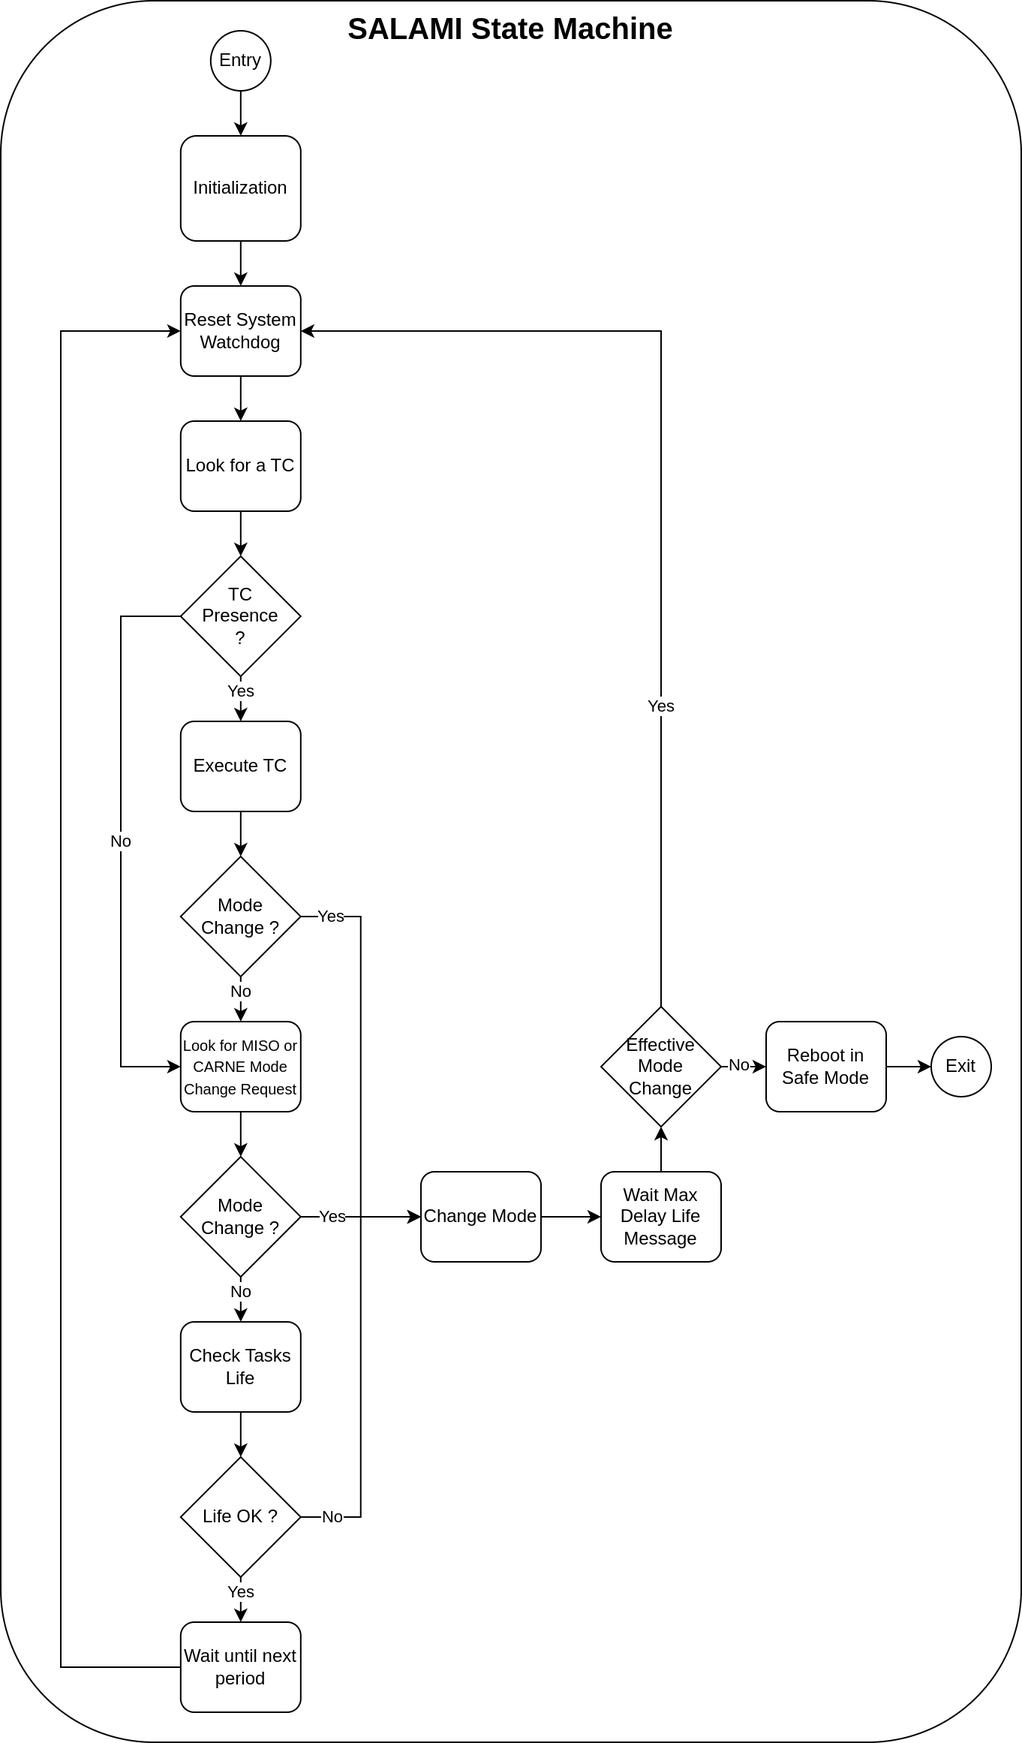
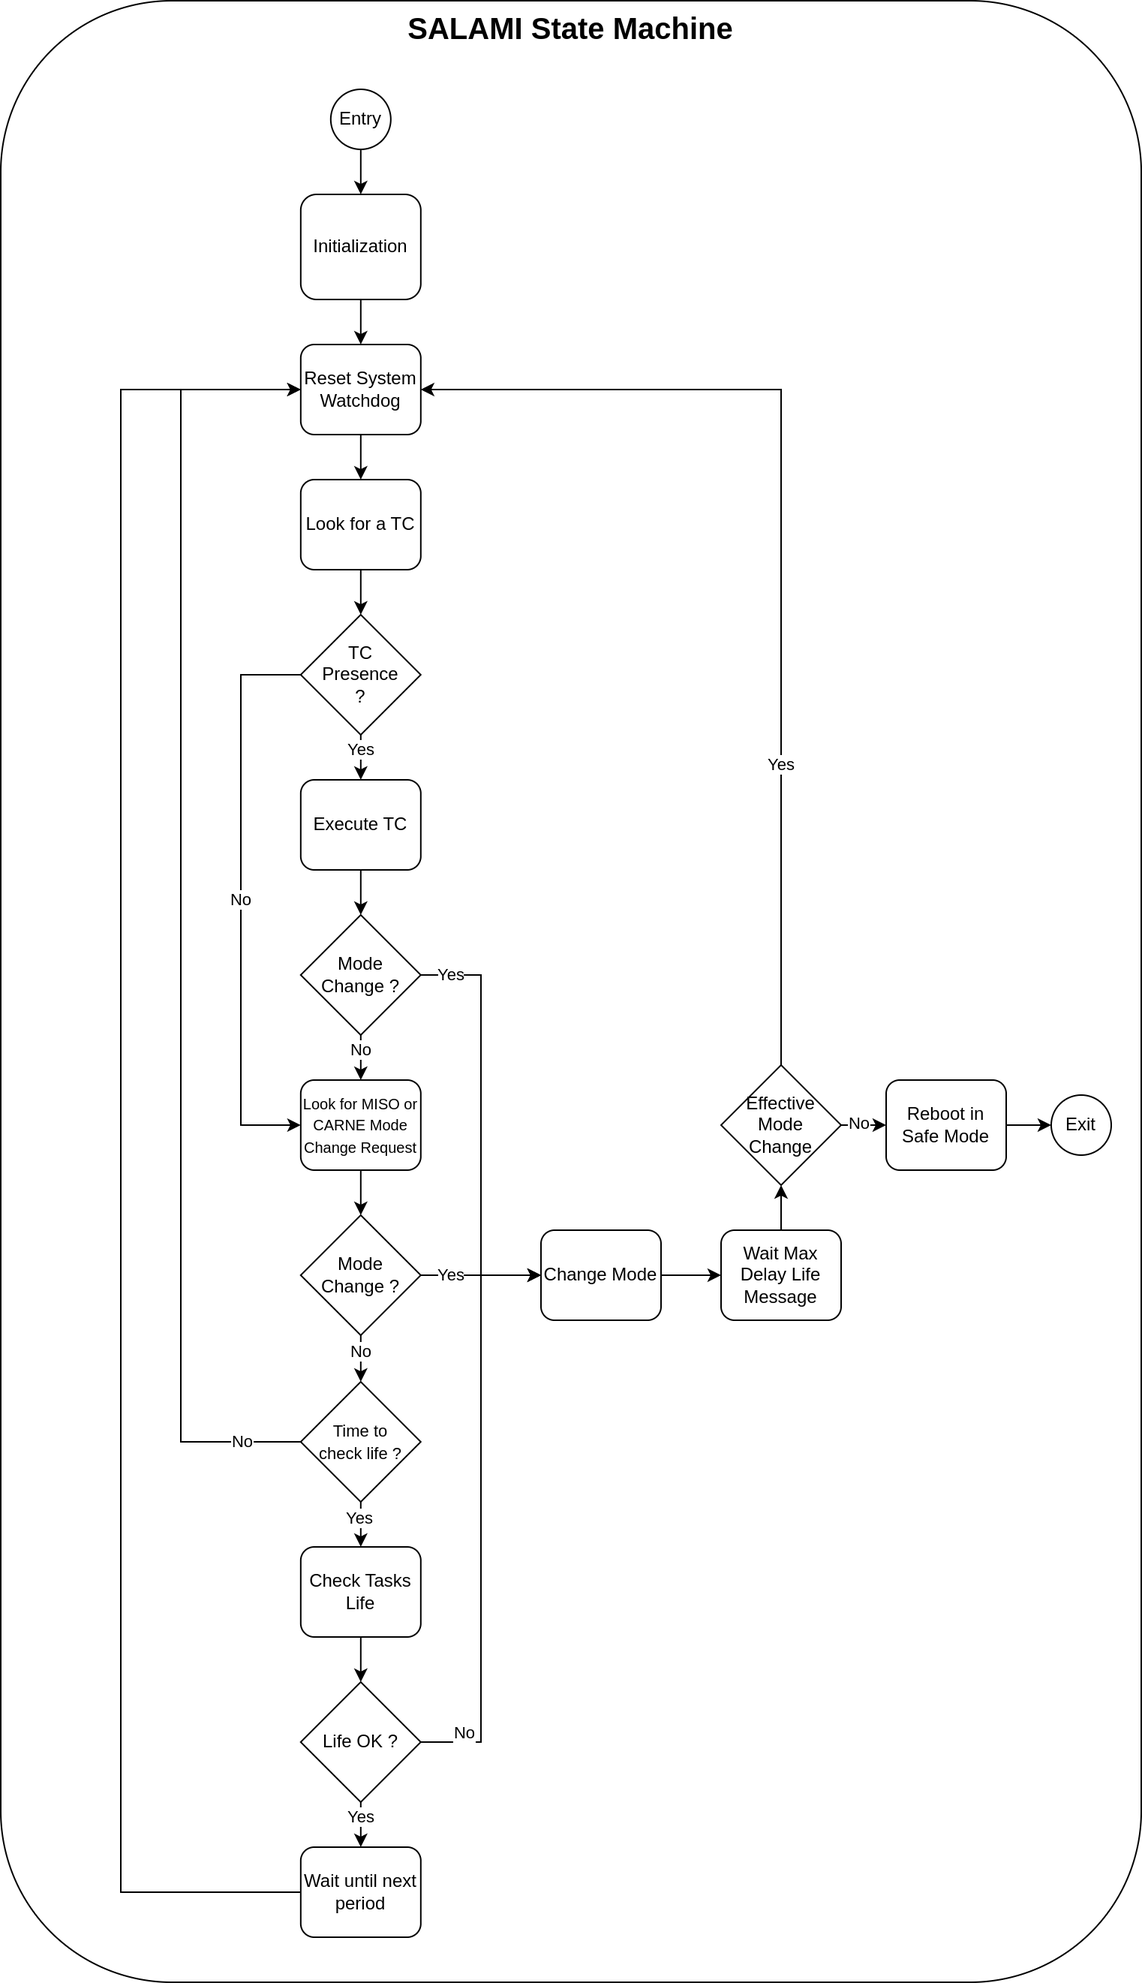
Add MISO specifications & adding few specs to SALAMI

diff --git a/doc/user-manual/SALAMI.md b/doc/user-manual/SALAMI.md
@@ -52,57 +52,61 @@ SAtellite Life Analysis & Mode Integration (SALAMI), along with MISO and CARNE, 
 |----------------|--------------|----------------|--------------------------------------------------------------------------------------|
 | T-TAPAS-210-00 | Mode Setting | T-TAPAS-200-00 | SALAMI must be able to tell the other tasks in which execution mode they should run. |
 
-| Reference      | Name         | Rational       | Description                                                                 |
-|----------------|--------------|----------------|-----------------------------------------------------------------------------|
-| T-TAPAS-211-00 | Life Message | T-TAPAS-200-00 | Life messages must be stored in buffers until they are processed by SALAMI. |
+| Reference      | Name                     | Rational       | Description                                                |
+|----------------|--------------------------|----------------|------------------------------------------------------------|
+| T-TAPAS-211-00 | Life Message Periodicity | T-TAPAS-200-00 | SALAMI must check lifes messages at a certain periodicity. |
 
-| Reference      | Name          | Rational       | Description                                                                                       |
-|----------------|---------------|----------------|---------------------------------------------------------------------------------------------------|
-| T-TAPAS-212-00 | Mode Variable | T-TAPAS-200-00 | The mode of a task must be a global variable shared between SALAMI and a task for a quick effect. |
+| Reference      | Name                 | Rational       | Description                                                                 |
+|----------------|----------------------|----------------|-----------------------------------------------------------------------------|
+| T-TAPAS-212-00 | Life Message Storage | T-TAPAS-200-00 | Life messages must be stored in buffers until they are processed by SALAMI. |
+
+| Reference      | Name         | Rational       | Description                                                                                       |
+|----------------|--------------|----------------|---------------------------------------------------------------------------------------------------|
+| T-TAPAS-213-00 | Mode Storage | T-TAPAS-200-00 | The mode of a task must be a global variable shared between SALAMI and a task for a quick effect. |
 
 | Reference      | Name                  | Rational       | Description                                                                                        |
 |----------------|-----------------------|----------------|----------------------------------------------------------------------------------------------------|
-| T-TAPAS-213-00 | Life Message Presence | T-TAPAS-200-00 | If no life message has been sent for some time, SALAMI should understand that the task is blocked. |
+| T-TAPAS-214-00 | Life Message Presence | T-TAPAS-200-00 | If no life message has been sent for some time, SALAMI should understand that the task is blocked. |
 
 | Reference      | Name                 | Rational       | Description                                                                                                      |
 |----------------|----------------------|----------------|------------------------------------------------------------------------------------------------------------------|
-| T-TAPAS-214-00 | Life Message Content | T-TAPAS-200-00 | Life messages must tell TAPAS the mode of the task, its status (error or not) and the time at which it was sent. |
+| T-TAPAS-215-00 | Life Message Content | T-TAPAS-200-00 | Life messages must tell TAPAS the mode of the task, its status (error or not) and the time at which it was sent. |
 
 | Reference      | Name                 | Rational       | Description                                                                                  |
 |----------------|----------------------|----------------|----------------------------------------------------------------------------------------------|
-| T-TAPAS-215-00 | Life Message Content | T-TAPAS-200-00 | If the life message warns SALAMI of an error, SALAMI must switch the satellite to SAFE mode. |
+| T-TAPAS-216-00 | Life Message Content | T-TAPAS-200-00 | If the life message warns SALAMI of an error, SALAMI must switch the satellite to SAFE mode. |
 
 | Reference      | Name           | Rational       | Description                                                                      |
 |----------------|----------------|----------------|----------------------------------------------------------------------------------|
-| T-TAPAS-216-00 | TC Mode Change | T-TAPAS-200-00 | SALAMI must be able to change the satellite mode if instructed to do so by a TC. |
+| T-TAPAS-217-00 | TC Mode Change | T-TAPAS-200-00 | SALAMI must be able to change the satellite mode if instructed to do so by a TC. |
 
 | Reference      | Name            | Rational       | Description                                                                                         |
 |----------------|-----------------|----------------|-----------------------------------------------------------------------------------------------------|
-| T-TAPAS-217-00 | End Mode Change | T-TAPAS-200-00 | SALAMI must be able to change the satellite mode if one or more spots indicate the end of the mode. |
+| T-TAPAS-218-00 | End Mode Change | T-TAPAS-200-00 | SALAMI must be able to change the satellite mode if one or more spots indicate the end of the mode. |
 
 | Reference      | Name                                | Rational       | Description                                                                                                          |
 |----------------|-------------------------------------|----------------|----------------------------------------------------------------------------------------------------------------------|
-| T-TAPAS-218-00 | Internal Software SAFE MODE Request | T-TAPAS-200-00 | SALAMI must be able to change the satellite mode to SAFE if the internal software monitoring task detects a problem. |
+| T-TAPAS-219-00 | Internal Software SAFE MODE Request | T-TAPAS-200-00 | SALAMI must be able to change the satellite mode to SAFE if the internal software monitoring task detects a problem. |
 
 | Reference      | Name                    | Rational       | Description                                                                                              |
 |----------------|-------------------------|----------------|----------------------------------------------------------------------------------------------------------|
-| T-TAPAS-219-00 | Event SAFE MODE Request | T-TAPAS-200-00 | SALAMI must be able to change the satellite mode to SAFE if the event management task detects a problem. |
+| T-TAPAS-220-00 | Event SAFE MODE Request | T-TAPAS-200-00 | SALAMI must be able to change the satellite mode to SAFE if the event management task detects a problem. |
 
 | Reference      | Name                      | Rational       | Description                                                                                                  |
 |----------------|---------------------------|----------------|--------------------------------------------------------------------------------------------------------------|
-| T-TAPAS-220-00 | Mode Change Effectiveness | T-TAPAS-200-00 | SALAMI must ensure that the exchange mode is effective. In particular, that it does not generate any errors. |
+| T-TAPAS-221-00 | Mode Change Effectiveness | T-TAPAS-200-00 | SALAMI must ensure that the exchange mode is effective. In particular, that it does not generate any errors. |
 
 | Reference      | Name              | Rational       | Description                                                                                               |
 |----------------|-------------------|----------------|-----------------------------------------------------------------------------------------------------------|
-| T-TAPAS-221-00 | Mode Change Delay | T-TAPAS-200-00 | SALAMI has to wait a while for the spots to change mode before checking that the spots have changed mode. |
+| T-TAPAS-222-00 | Mode Change Delay | T-TAPAS-200-00 | SALAMI has to wait a while for the spots to change mode before checking that the spots have changed mode. |
 
 | Reference      | Name            | Rational       | Description                                                                     |
 |----------------|-----------------|----------------|---------------------------------------------------------------------------------|
-| T-TAPAS-222-00 | Task Suspension | T-TAPAS-200-00 | SALAMI must be able to suspend tasks not used by the mode to reduce scheduling. |
+| T-TAPAS-223-00 | Task Suspension | T-TAPAS-200-00 | SALAMI must be able to suspend tasks not used by the mode to reduce scheduling. |
 
 | Reference      | Name                        | Rational       | Description                                                                                      |
 |----------------|-----------------------------|----------------|--------------------------------------------------------------------------------------------------|
-| T-TAPAS-223-00 | Mode Change Task Parameters | T-TAPAS-200-00 | Changing the mode allows SALAMI to change the execution period of a task and its priority level. |
+| T-TAPAS-224-00 | Mode Change Task Parameters | T-TAPAS-200-00 | Changing the mode allows SALAMI to change the execution period of a task and its priority level. |
 
 ## Description
 

diff --git a/doc/user-manual/MISO.md b/doc/user-manual/MISO.md
@@ -4,8 +4,70 @@
 
 ## Introduction
 
+Monitoring & Internal Software Observation (MISO), along with SALAMI and CARNE, is one of the three major tasks of TAPAS. His role is to check that the software is working properly. Where SALAMI checks that the tasks are working properly, MISO checks the OS.
+
 ## Specifications
+
+| Reference      | Name      | Rational       | Description                                                    |
+|----------------|-----------|----------------|----------------------------------------------------------------|
+| T-TAPAS-250-00 | MISO Task | T-TAPAS-051-00 | MISO is the task responsible for internal software monitoring. |
+
+| Reference      | Name             | Rational       | Description                                                  |
+|----------------|------------------|----------------|--------------------------------------------------------------|
+| T-TAPAS-251-00 | Stack Monitoring | T-TAPAS-250-00 | MISO must monitor the peak usage of the stack for each task. |
+
+| Reference      | Name               | Rational       | Description                      |
+|----------------|--------------------|----------------|----------------------------------|
+| T-TAPAS-252-00 | Runtime Monitoring | T-TAPAS-250-00 | MISO must monitor tasks runtime. |
+
+| Reference      | Name                   | Rational       | Description                                                               |
+|----------------|------------------------|----------------|---------------------------------------------------------------------------|
+| T-TAPAS-260-00 | Stack Monitoring Event | T-TAPAS-251-00 | MISO should generate an event when the last peak stack usage exceeds 70%. |
+
+| Reference      | Name                         | Rational       | Description                                                                          |
+|----------------|------------------------------|----------------|--------------------------------------------------------------------------------------|
+| T-TAPAS-261-00 | Stack Monitoring Mode Change | T-TAPAS-251-00 | MISO must ask to switch to safe mode if a task exceeds 90% of last peak stack usage. |
+
+| Reference      | Name                     | Rational       | Description                                                         |
+|----------------|--------------------------|----------------|---------------------------------------------------------------------|
+| T-TAPAS-262-00 | Runtime Monitoring Event | T-TAPAS-252-00 | MISO must generate an event when the idle CPU runtime is below 20%. |
+
+| Reference      | Name                           | Rational       | Description                                                                 |
+|----------------|--------------------------------|----------------|-----------------------------------------------------------------------------|
+| T-TAPAS-263-00 | Runtime Monitoring Mode Change | T-TAPAS-252-00 | MISO must ask to switch to safe mode when the idle CPU runtime is below 5%. |
 
 ## Description
 
+MISO, like CARNE, was created to avoid SALAMI being the only task to monitor. SALAMI keeps the task execution monitoring, CARNE monitors the events taking place in the satellite and MISO monitors the OS. The advantages of separating these three activities are more dynamic scheduling (SALAMI does not monopolise the time available) and more effective failure detection.
+
+MISO will monitor certain metrics that could lead to an OS or TAPAS error, such as :
+- Stack utilisation for each task.
+- Run time of each task.
+
+Measuring stack usage helps to prevent stack overflows. In fact, when an overflow occurs, the OS will shut down for safety reasons, as there may be memory corruption if the task has written to an area that is not its stack. Stack monitoring does two things:
+- Generate events that can be traced back to a stack overflow if there is a crash.
+- Anticipate a stack overflow and switch the satellite to safe mode.
+
+Measuring the runtime of a task helps to prevent starvation. Measuring the runtime allows you to see the execution time of each task. If a task starts to take up too much CPU time, it can prevent lower-priority tasks from executing.  As with stack monitoring, runtime monitoring allows you to :
+- Generate events that can be traced back to the task that is monopolising the CPU.
+- Anticipate starvation and switch the satellite to safe mode.
+
+The operation of MISO is then relatively simple and can be summarized with the following state machine :
+
+<center><img src="../images/MISO_State_Machine.png" width=30% /></center>
+
 ## Failure Management
+
+The following two tables list the types and subtypes encountered by MISO:
+
+| Number | Error Type | Description      |
+|--------|------------|------------------|
+| 0      | No Error   | No error occured |
+| 1      | ...        | ...              |
+
+| Number | Error SubType | Description      |
+|--------|---------------|------------------|
+| 0      | No Error      | No error occured |
+| 1      | ...           | ...              |
+
+<span style="color:red"> These two tables must be completed when the MISO code is created. </span>

diff --git a/doc/user-manual/Internal_Architecture.md b/doc/user-manual/Internal_Architecture.md
@@ -47,6 +47,10 @@ This section contains the global specifications. The internal specifications for
 |----------------|---------------|----------|-----------------------------------------------------------------------------------------------------|
 | T-TAPAS-008-00 | On Board Time | N/A      | The on-board time will be encoded using the CCSDS Unsegment time Code format (cf. CCSDS 301.0-B-2). |
 
+| Reference      | Name            | Rational | Description                                                        |
+|----------------|-----------------|----------|--------------------------------------------------------------------|
+| T-TAPAS-009-00 | Reconfiguration | N/A      | TAPAS configurations can be recharged from the ground if required. |
+
 | Reference      | Name         | Rational       | Description                                                           |
 |----------------|--------------|----------------|-----------------------------------------------------------------------|
 | T-TAPAS-010-00 | Adaptability | T-TAPAS-001-00 | TAPAS must have several execution modes to handle different contexts. |
@@ -199,6 +203,8 @@ In the event of an error, this life message must make it possible to record who 
 - Error Type: identifies the type of problem (init problem, hardware problem, computation problem, etc.).
 - Error Subtype: used to identify the error more precisely.
 - Time: indicates the OBT value (CUC format) at the time the error occurred.
+
+**Note:** If there is no error, the task sends a life message when the error occurs, and not before waiting for the next execution. The Error Type and Error Subtype fields indicate that there is no error.
 
 The following table summarises the life message format:
 <table style="border-collapse:collapse;border-spacing:0" class="tg"><thead><tr><th style="border-color:inherit;border-style:solid;border-width:1px;font-family:Arial, sans-serif;font-size:14px;font-weight:bold;overflow:hidden;padding:10px 5px;text-align:left;vertical-align:top;word-break:normal">Field</th><th style="border-color:inherit;border-style:solid;border-width:1px;font-family:Arial, sans-serif;font-size:14px;font-weight:normal;overflow:hidden;padding:10px 5px;text-align:center;vertical-align:top;word-break:normal">Task Reference</th><th style="border-color:inherit;border-style:solid;border-width:1px;font-family:Arial, sans-serif;font-size:14px;font-weight:normal;overflow:hidden;padding:10px 5px;text-align:center;vertical-align:top;word-break:normal">Task Mode</th><th style="border-color:inherit;border-style:solid;border-width:1px;font-family:Arial, sans-serif;font-size:14px;font-weight:normal;overflow:hidden;padding:10px 5px;text-align:center;vertical-align:top;word-break:normal">Error Type</th><th style="border-color:inherit;border-style:solid;border-width:1px;font-family:Arial, sans-serif;font-size:14px;font-weight:normal;overflow:hidden;padding:10px 5px;text-align:center;vertical-align:top;word-break:normal">Error Subtype</th><th style="border-color:inherit;border-style:solid;border-width:1px;font-family:Arial, sans-serif;font-size:14px;font-weight:normal;overflow:hidden;padding:10px 5px;text-align:center;vertical-align:top;word-break:normal">Time</th></tr></thead><tbody><tr><td style="border-color:inherit;border-style:solid;border-width:1px;font-family:Arial, sans-serif;font-size:14px;font-weight:bold;overflow:hidden;padding:10px 5px;text-align:left;vertical-align:top;word-break:normal">Size</td><td style="border-color:inherit;border-style:solid;border-width:1px;font-family:Arial, sans-serif;font-size:14px;overflow:hidden;padding:10px 5px;text-align:center;vertical-align:top;word-break:normal">8 bits</td><td style="border-color:inherit;border-style:solid;border-width:1px;font-family:Arial, sans-serif;font-size:14px;overflow:hidden;padding:10px 5px;text-align:center;vertical-align:top;word-break:normal">8 bits</td><td style="border-color:inherit;border-style:solid;border-width:1px;font-family:Arial, sans-serif;font-size:14px;overflow:hidden;padding:10px 5px;text-align:center;vertical-align:top;word-break:normal">8 bits</td><td style="border-color:inherit;border-style:solid;border-width:1px;font-family:Arial, sans-serif;font-size:14px;overflow:hidden;padding:10px 5px;text-align:center;vertical-align:top;word-break:normal">8 bits</td><td style="border-color:inherit;border-style:solid;border-width:1px;font-family:Arial, sans-serif;font-size:14px;overflow:hidden;padding:10px 5px;text-align:center;vertical-align:top;word-break:normal">64 bits</td></tr></tbody></table>

diff --git a/doc/user-manual/CARNE.md b/doc/user-manual/CARNE.md
@@ -4,8 +4,26 @@
 
 ## Introduction
 
+Common Automated Recording of New Events (CARNE), along with SALAMI and MISO, is one of the three major tasks of TAPAS. Its role is to check that the satellite is behaving as expected. In fact, events are messages that signal that the satellite is leaving or is about to leave its nominal behaviour. An event does not represent a software error, unlike what SALAMI and MISO monitor.
+
 ## Specifications
 
 ## Description
 
+CARNE, like MISO, was created to avoid SALAMI being the only task to monitor. SALAMI keeps the task execution monitoring, CARNE monitors the events taking place in the satellite and MISO monitors the OS. The advantages of separating these three activities are more dynamic scheduling (SALAMI does not monopolise the time available) and more effective failure detection.
+
 ## Failure Management
+
+The following two tables list the types and subtypes encountered by CARNE:
+
+| Number | Error Type | Description      |
+|--------|------------|------------------|
+| 0      | No Error   | No error occured |
+| 1      | ...        | ...              |
+
+| Number | Error SubType | Description      |
+|--------|---------------|------------------|
+| 0      | No Error      | No error occured |
+| 1      | ...           | ...              |
+
+<span style="color:red"> These two tables must be completed when the CARNE code is created. </span>

diff --git a/README.md b/README.md
@@ -14,6 +14,8 @@ But the software must also be autonomous because it will be connected to the gro
 
 TAPAS is based on FreeRTOS software which is an open-source real-time OS (RTOS) . It provides task management and time scheduling for low-power embedded applications. Moreover, TAPAS is designed to run on an ARM-M processor which is the architecture chosen for the on-board computer.
 
+If you want to know more about the inner workings of TAPAS, you can read the [user manual](doc/user-manual/UserManual.md).
+
 ## Description 
 
 TAPAS is, as mentioned in the previous paragraph, based on FreeRTOS and is intended to run on an ARM-M target. In order to be able to develop a software that can use this OS and adapt to several possible targets, it was decided to separate the source code by functionality. We distinguish three sets of functionalities:
